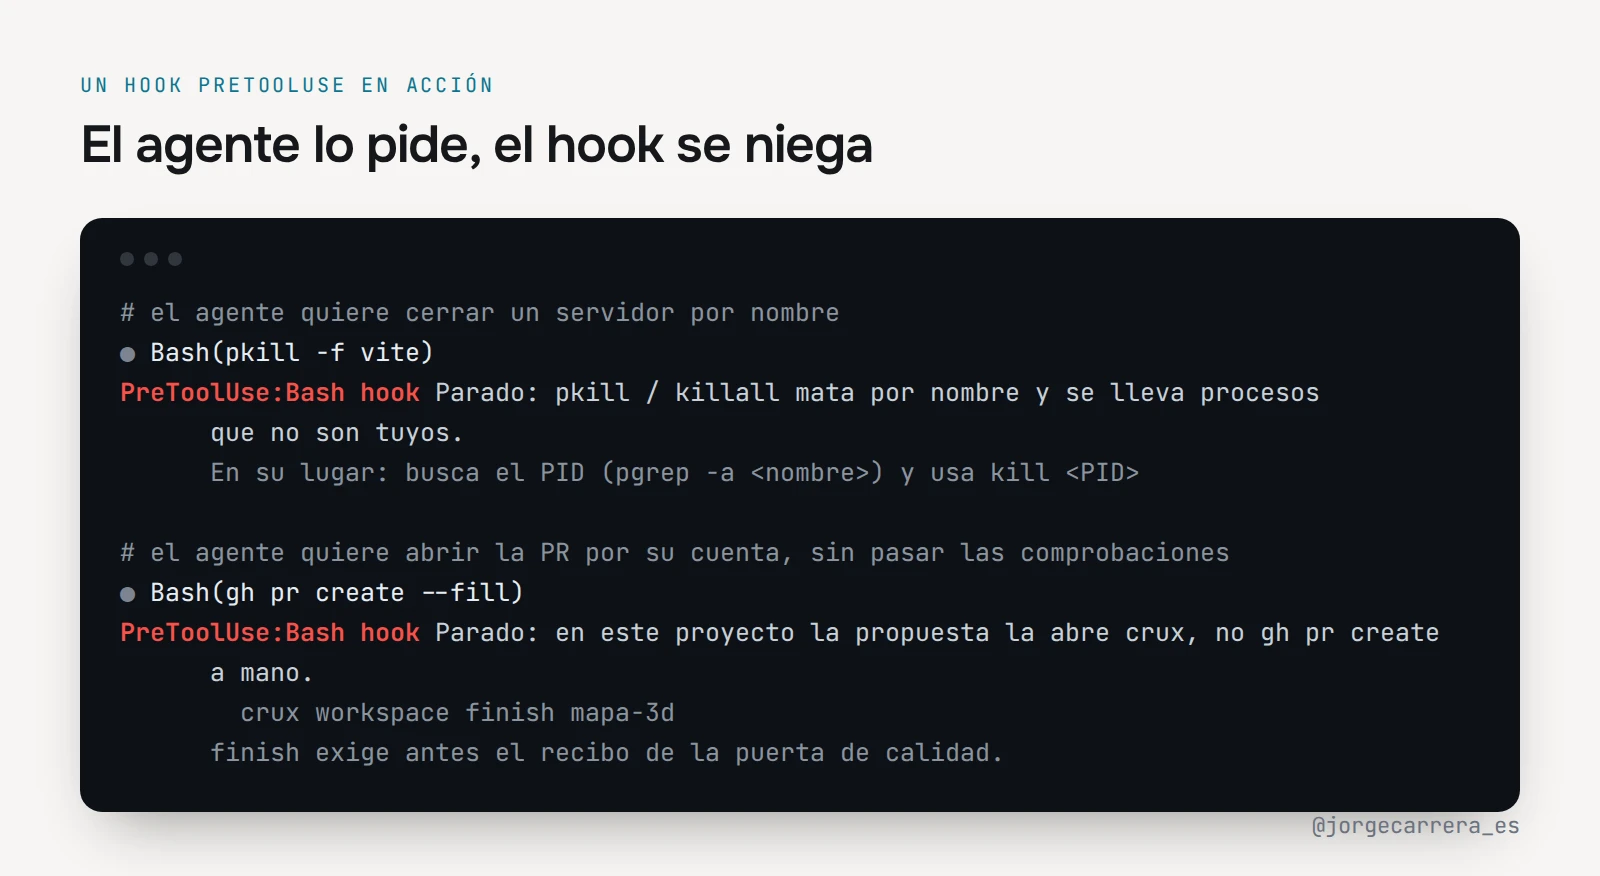
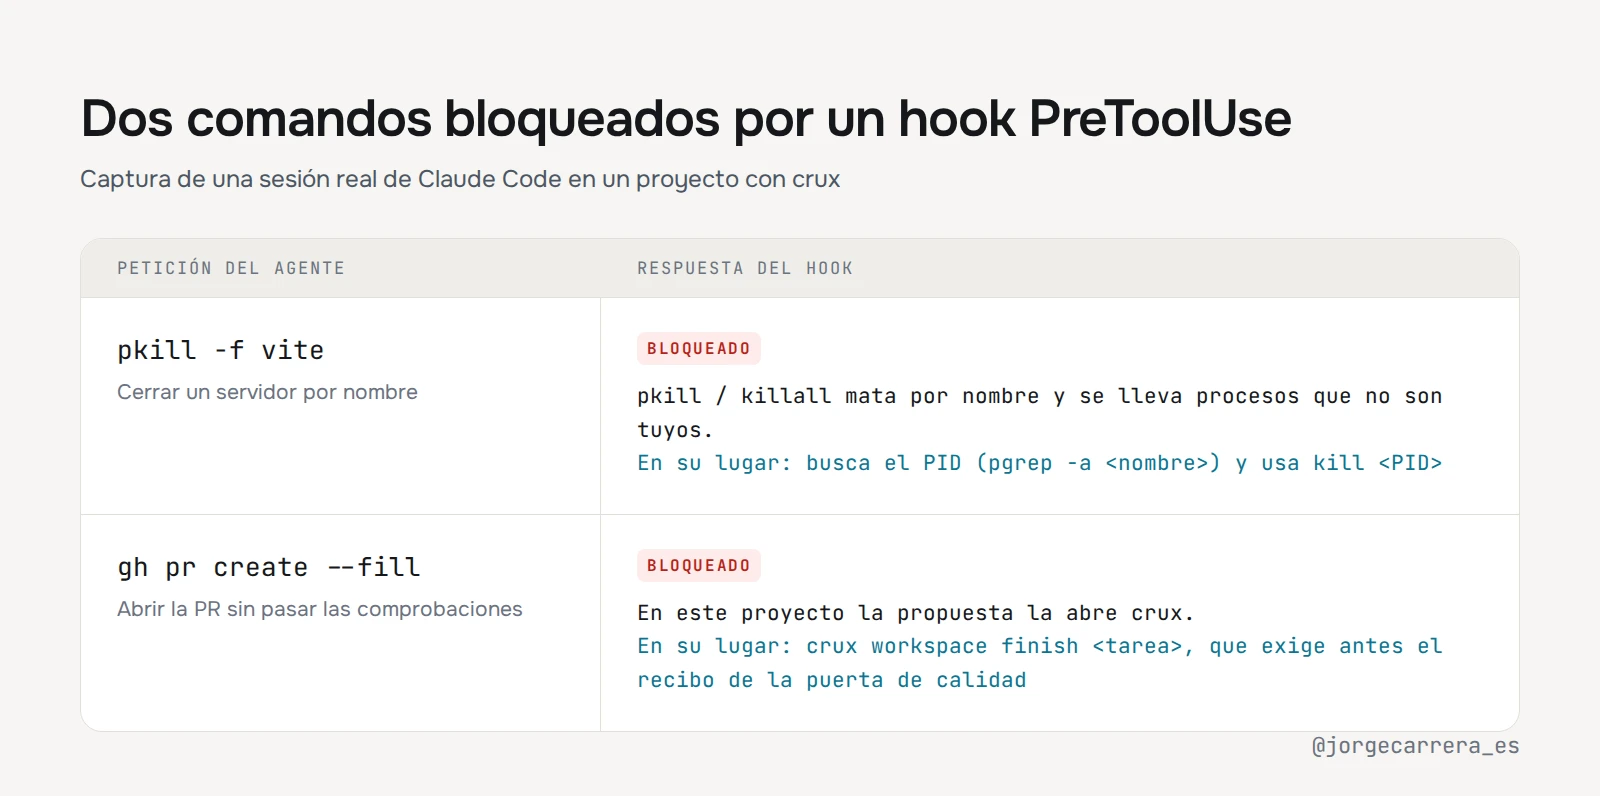
docs(blog): rewrite the agents article in plainer prose (#50)
* docs(blog): rewrite the agents article in plainer prose

Restores the article with a new intro, plain section titles and a shorter
crux section; drops the stdin/exit-code detail, now in the first-hook article,
and the limits section.

* docs(blog): redraw the hook infographic as a request/response table

* docs(blog): republish the agents article with its new X post

diff --git a/src/content/blog/es/controlar-agentes.md b/src/content/blog/es/controlar-agentes.md
@@ -1,0 +1,168 @@
+---
+title: "Cómo conseguir que un agente de IA siga tu metodología"
+description: "Por qué un agente se salta las reglas que le escribes, qué pasa por dentro entre lo que pide y lo que ejecuta, y cómo bloquearlo cuando se salta el protocolo."
+date: 2026-09-29
+cover: /blog/agentes/portada.webp
+coverAlt: "Portada con el título «Cómo conseguir que un agente de IA siga tu metodología» y el bucle del agente, con el paso PreToolUse resaltado entre la petición del modelo y la ejecución"
+preview: /blog/agentes/guardia.webp
+previewAlt: "Tabla con dos comandos que pidió el agente, pkill y gh pr create, bloqueados por un hook PreToolUse con la alternativa que propone"
+xUrl: https://x.com/jorgecarrera_es/status/2105037123397025961
+tags:
+  - Agentes de IA
+  - Hooks
+  - Crux
+---
+
+> [!SUMMARY] En resumen
+> - El modelo nunca ejecuta nada: pide herramientas, y quien las ejecuta es el programa que lo rodea.
+> - Entre lo que pide y lo que pasa hay momentos en los que puedes meter tu propio código. Se llaman hooks.
+> - Las instrucciones escritas influyen en el agente. Un hook decide por él.
+
+Hace unos días conté cómo organizo el trabajo con agentes en [crux](/blog/crux).
+Después de publicarlo, varias personas me preguntaron lo mismo con otras
+palabras: ¿cómo consigues que el agente siga el proceso?
+
+Durante un tiempo no me di cuenta de que el agente no seguía siempre la misma
+metodología. Unas veces hacía todo el proceso y otras se saltaba pasos. Un
+agente es probabilístico, no determinista, y yo lo estaba tratando como si
+siguiera un guion.
+
+Todo lo que crux le decía al agente le llegaba por skills y por documentación,
+y eso acaba en su contexto. Si quedaba enterrado bajo el resto de la
+conversación, el agente no lo tenía en cuenta. Me di cuenta al mirar una skill
+que describía el ciclo de una tarea: en 31 sesiones de trabajo, el agente la
+había abierto **cero veces**. Nada controlaba su ciclo de vida.
+
+Empecé a investigar y vi que los agentes tienen hooks, puntos de su ciclo de
+vida en los que puedes meter tu propio código. Ahí estaba la solución. Para
+entender por qué funciona, primero hay que ver qué es un agente por dentro.
+
+## Cómo funciona un agente
+
+Un modelo de lenguaje recibe texto y devuelve texto. No puede leer un fichero de
+tu disco, ni ejecutar un comando, ni hacer un commit.
+
+Lo que llamamos agente es un programa alrededor del modelo que sí puede hacer
+todo eso. En inglés se le llama *harness*, arnés. Claude Code es un arnés, y
+Codex y Cursor también.
+
+El arnés y el modelo trabajan en un bucle:
+
+1. El arnés le manda al modelo tu mensaje, todo el historial de la conversación
+   y la lista de herramientas que tiene disponibles.
+2. El modelo contesta de una de dos formas: con texto para ti, o con una
+   petición del tipo «quiero usar la herramienta `Bash` con el comando
+   `npm test`».
+3. Si es una petición, el arnés la ejecuta y guarda el resultado.
+4. El resultado vuelve al modelo, y el bucle se repite hasta que el modelo
+   responde sin pedir nada más.
+
+Lo importante está en el paso 3. **El modelo solo pide.** Cada comando que ves
+ejecutarse, cada fichero que se lee o se edita, es una petición que el arnés
+decide cumplir.
+
+> [!NOTE] Cómo sabe el modelo qué herramientas tiene
+> El arnés se las describe en cada petición: un nombre, una descripción de
+> cuándo usarla y los parámetros que acepta. El modelo elige herramienta por
+> esa descripción, así que una descripción mala hace que no se use o que se use
+> mal. Como ocupan contexto, los arneses cargan algunas bajo demanda: el modelo
+> solo ve su nombre hasta que la necesita. Las skills funcionan igual: el agente
+> ve una línea de cada una y abre el procedimiento completo cuando toca.
+
+## Por qué no sigue las reglas escritas
+
+Las reglas de un proyecto suelen vivir en un fichero de instrucciones
+(`AGENTS.md`, `CLAUDE.md`) o en skills. Todo eso acaba en el mismo sitio, el
+contexto que el arnés le manda al modelo en el paso 1.
+
+Y en el contexto compite con todo lo demás: tu mensaje, el código que ha leído,
+los errores de la última ejecución. El modelo pesa todo eso y decide. Casi
+siempre decide bien, pero es una decisión probabilística. Una regla escrita
+**influye** en lo que hace el agente, pero no lo **obliga**.
+
+> Cuando el agente va con prisa por terminar lo que le has pedido, una regla
+> escrita a doce mensajes de distancia pierde.
+
+## Qué es un hook
+
+El bucle tiene momentos en los que el control lo tiene el arnés y no el modelo.
+Los arneses más usados te dejan engancharte ahí con un script tuyo, y a eso se
+le llama *hook*.
+
+En Claude Code los momentos principales son estos:
+
+- **`SessionStart`**, al abrir una sesión. Sirve para añadir contexto antes de
+  empezar.
+- **`UserPromptSubmit`**, cada vez que escribes un mensaje. Tu script puede mirar
+  el estado del proyecto y añadir un recordatorio.
+- **`PreToolUse`**, justo antes de ejecutar una herramienta. Es el que
+  **puede impedir que se ejecute**.
+- **`PostToolUse`**, después de ejecutarla. Ve el resultado y puede reaccionar,
+  por ejemplo pasando el formateador tras cada edición.
+- **`Stop`**, cuando el agente va a darte el turno. Puede revisar lo que ha hecho
+  antes de soltarte.
+
+## Ejemplo: bloquear un push forzado
+
+Para verlo con un caso concreto: quiero que el agente no pueda hacer nunca
+`git push --force`, que sobrescribe la rama remota y puede borrar el trabajo de
+otra persona.
+
+Esto es lo que pasa, en orden, cuando el agente lo intenta:
+
+1. Le pido que suba los cambios.
+2. El modelo contesta con una petición: «quiero usar `Bash` con el comando
+   `git push -f`».
+3. Claude Code **todavía no lo ejecuta**. Primero mira su configuración y ve
+   que hay un hook para ese momento (`PreToolUse`) y esa herramienta (`Bash`).
+4. Arranca mi script como un programa aparte, igual que si yo lo lanzara en la
+   terminal, y le pasa la petición.
+5. Mi script la lee, ve que es un push forzado, escribe el motivo y termina
+   diciendo «no».
+6. Claude Code no ejecuta el push. En su lugar, le devuelve al modelo el motivo
+   que escribió mi script, como si fuera el resultado del comando.
+7. El modelo lo lee, ve que le propone `--force-with-lease` y lo intenta así.
+   Esta vez el script dice «sí» y el comando se ejecuta.
+
+> [!NOTE] Cómo se escribe uno
+> En el próximo artículo, «Tu primer hook, paso a paso», monto este mismo hook
+> desde cero: dónde se configura y cómo lo encuentra Claude Code, el script en
+> TypeScript línea a línea y cómo probarlo sin el agente.
+
+## Cómo utilizo los hooks en crux
+
+En crux utilizo dos tipos de hooks: los que añaden contexto y los que bloquean
+comandos.
+
+Los primeros le dan al agente información en el momento en que la necesita.
+Cuando escribo un mensaje y estoy en la rama principal, un hook
+`UserPromptSubmit` le indica que antes debe abrir un espacio de trabajo. Cuando
+retomo una tarea, el mismo evento le pasa lo que ya está hecho y lo que queda
+pendiente. Al terminar cada turno, un hook `Stop` comprueba si ha modificado
+código sin actualizar la documentación y, en ese caso, se lo advierte. Son
+avisos: si el agente los ignora, el error es fácil de corregir.
+
+Los segundos usan `PreToolUse`, como en el ejemplo del push forzado. Los
+reservo para acciones que no se pueden deshacer o que obligan a repetir mucho
+trabajo: `git reset --hard`, `git push --force`, terminar procesos por nombre o
+abrir una PR sin haber pasado las comprobaciones. No bloqueo nada más, porque
+cada bloqueo añade fricción y un sistema demasiado restrictivo acaba
+desactivándose.
+
+Un ejemplo de este segundo tipo: en crux, las PR se abren con
+`crux workspace finish`, que antes comprueba que han pasado los tests y el
+build. El agente podía saltarse esa comprobación subiendo la rama y abriendo la
+PR directamente con `gh pr create`. Para evitarlo, un hook bloquea ese comando.
+
+![Dos comandos bloqueados por un hook PreToolUse: pkill -f vite y gh pr create --fill](/blog/agentes/guardia.webp)
+
+Los mensajes de la tabla son reales, de la sesión en la que instalé estos
+hooks: al probarlos, uno de ellos bloqueó un `pkill`. Además de rechazar el comando, el mensaje le indica
+al agente qué alternativa usar. Sin esa indicación, el agente tiende a probar
+otras formas de hacer lo mismo hasta dar con una que no esté bloqueada.
+
+Durante meses intenté que el agente siguiera el proceso describiéndolo cada vez
+mejor en la documentación. El cambio llegó al controlar su ciclo de vida con
+hooks. El sistema completo está explicado en el
+[artículo sobre crux](/blog/crux). Si estás montando algo parecido, puedes
+escribirme en X: [@jorgecarrera_es](https://x.com/jorgecarrera_es).
